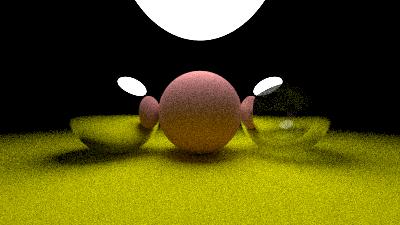
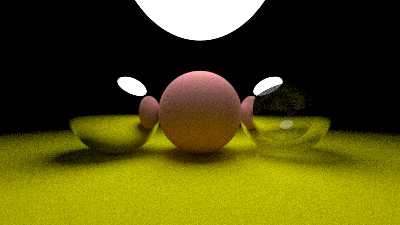
Visualization of the progress

diff --git a/raytracing_engine/engine.cpp b/raytracing_engine/engine.cpp
@@ -92,6 +92,8 @@ void engine::render()
 
             img.at<cv::Vec3b>(cv::Point(i, j)) = pixcol.to_cvColor(cam.samples_per_pixel);
         }
+        cv::imshow("test", img);
+        cv::waitKey(1);
     }
 
     cv::imshow("test", img);
